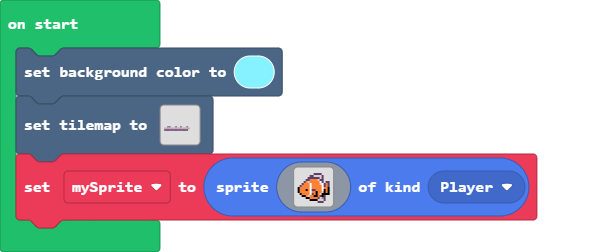
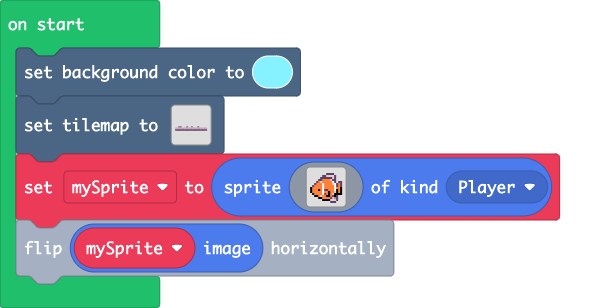
Update main.blocks, main.ts

diff --git a/main.ts b/main.ts
@@ -1,13 +1,13 @@
 scene.setBackgroundColor(9)
-tiles.setTilemap(tiles.createTilemap(hex`1400080000000000000000000000000000000000000000000000000000000000000000000000000000000000000000000000000000000000000000000000000000000000000000000000000000000000000000000000000000000000000000000000000000000000000004040000000400000400000004000000000003030303030303030303030303030303000000000201010101010101010101010101010000000000`, img`
+tiles.setTilemap(tiles.createTilemap(hex`1400080000000000000000000000000000000000000000000000000000000000000000000000000000000000000000000000000000000000000000000000000000000000000000000000000000000000000000000000000000000000000000000000000000000000000004040000000400000400000004000000000003030303030303030303030303030303030303030201010101010101010101010101010101010101`, img`
     . . . . . . . . . . . . . . . . . . . . 
     . . . . . . . . . . . . . . . . . . . . 
     . . . . . . . . . . . . . . . . . . . . 
     . . . . . . . . . . . . . . . . . . . . 
     . . . . . . . . . . . . . . . . . . . . 
     . . . . . . . . . . . . . . . . . . . . 
-    . . . . . . . . . . . . . . . . . . . . 
-    . . . . . . . . . . . . . . . . . . . . 
+    2 2 2 2 2 2 2 2 2 2 2 2 2 2 2 2 2 2 2 2 
+    2 2 2 2 2 2 2 2 2 2 2 2 2 2 2 2 2 2 2 2 
     `, [myTiles.transparency16,sprites.builtin.oceanSand11,sprites.builtin.oceanSand8,sprites.builtin.oceanSand2,sprites.builtin.coral5], TileScale.Sixteen))
 let mySprite = sprites.create(img`
     . . . . . . . . . . . . . . . . 
@@ -27,3 +27,4 @@ let mySprite = sprites.create(img`
     . . . . . . f f f f d d d c . . 
     . . . . . . . . . . c c c . . . 
     `, SpriteKind.Player)
+mySprite.image.flipX()
